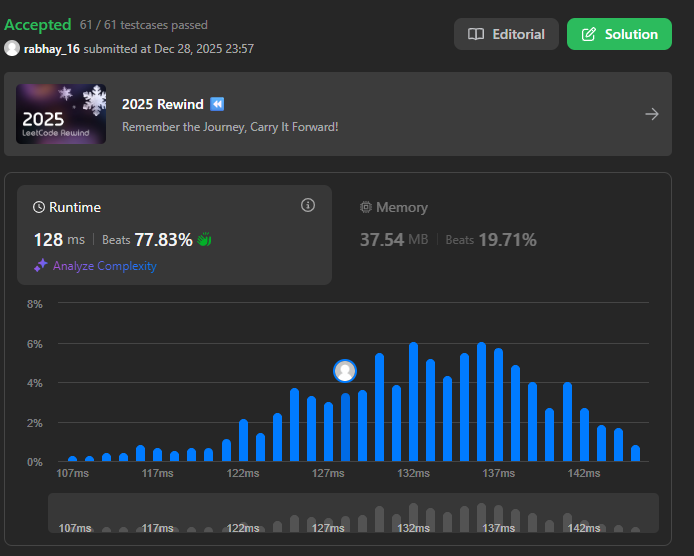
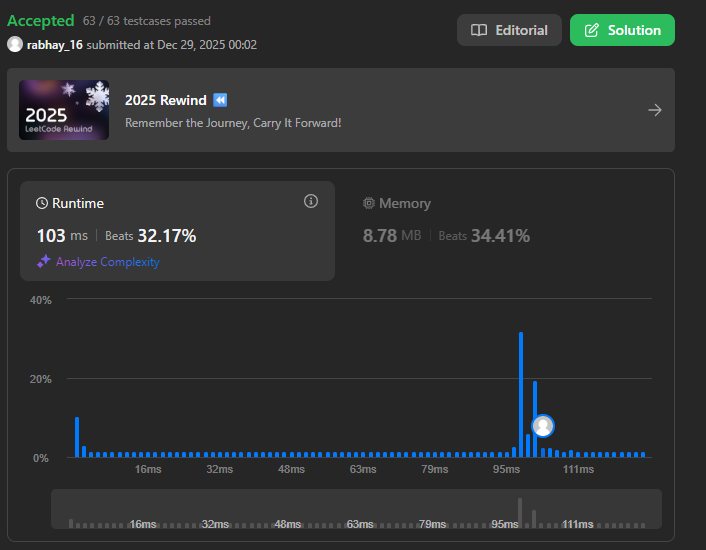
leet code qn 1

diff --git a/1wn24cs214/TwoSumIN.c b/1wn24cs214/TwoSumIN.c
@@ -1,0 +1,15 @@
+int* twoSum(int* nums, int numsSize, int target, int* returnSize) {
+    int *res = (int*)malloc(2 * sizeof(int));
+    for (int i = 0; i < numsSize; i++) {
+        for (int j = i + 1; j < numsSize; j++) {
+            if (nums[i] + nums[j] == target) {
+                res[0] = i;
+                res[1] = j;
+                *returnSize = 2;
+                return res;
+            }
+        }
+    }
+    *returnSize = 0;
+    return res;
+}
